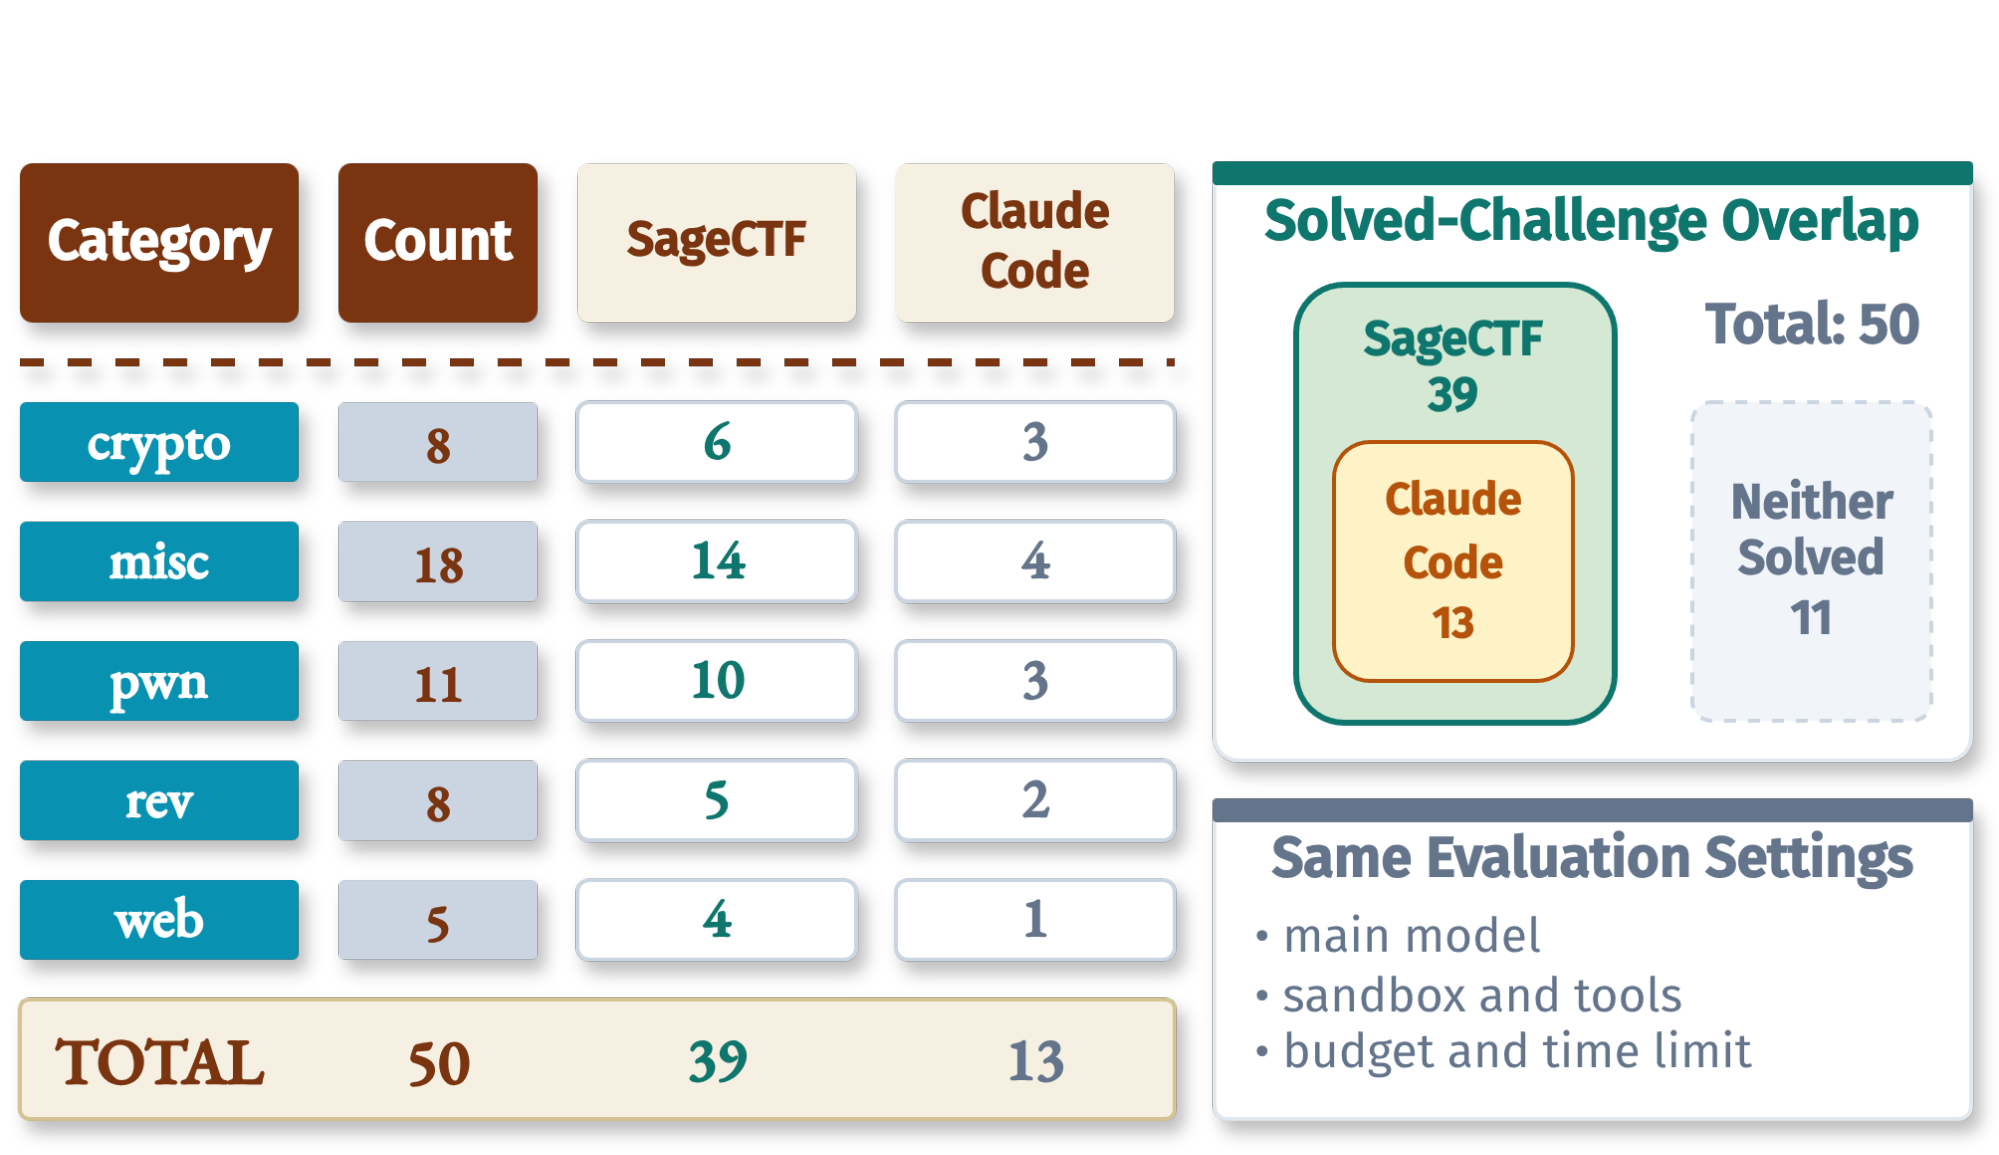
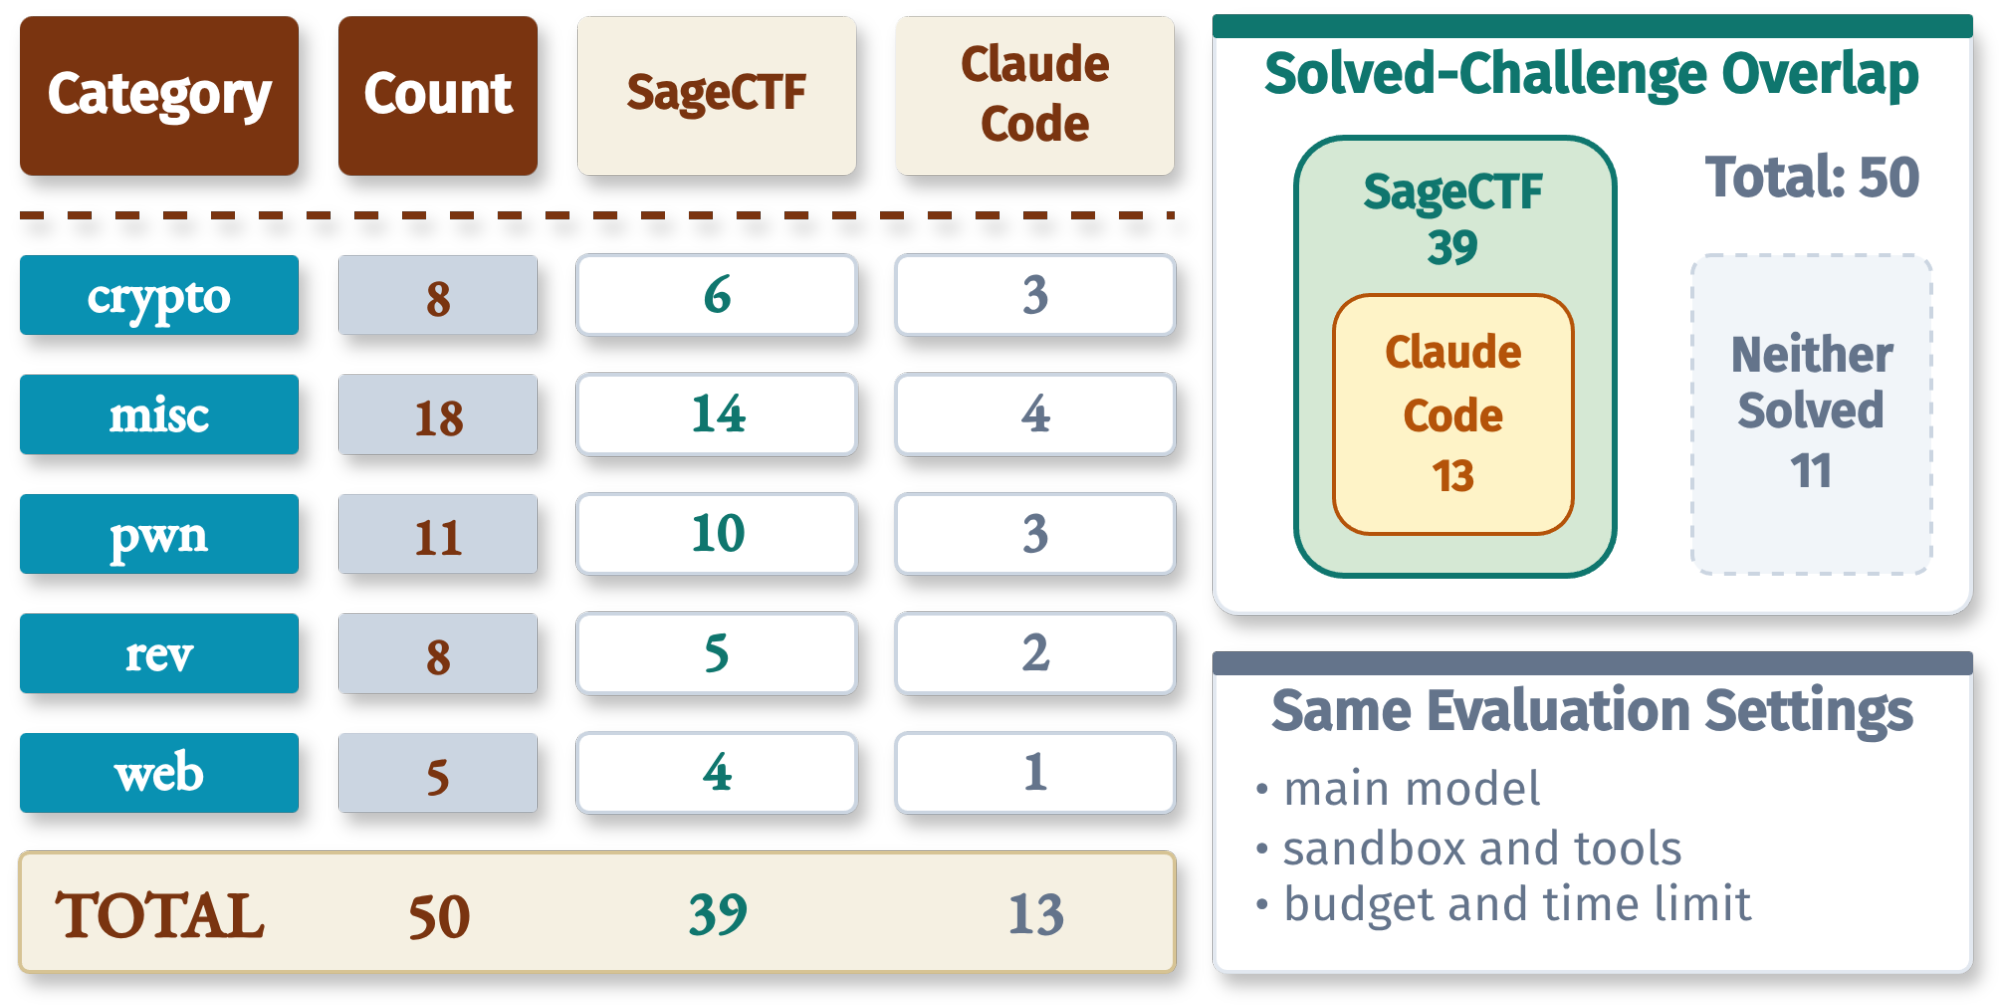
fix: blog post polish — divider, figure legibility, image trim
- Remove duplicate divider between title/meta and body (meta border-bottom
  already separates; drop leading <hr>)
- Add light figure backing for CTF post in dark theme so on-image text is
  readable; bump blog.css cache version
- Trim blank header band from sagectf/image6.png

diff --git a/static/css/blog.css b/static/css/blog.css
@@ -149,6 +149,15 @@ html[data-theme="light"] .blog-content strong {
   border: 1px solid var(--cyber-border);
 }
 
+/* CTF post: figures carry on-image text that is hard to read against the
+   dark page background, so give them a light backing in dark theme only
+   (light theme already has a light page background). The hero banner is
+   excluded since it is a full-bleed designed image. */
+html:not([data-theme="light"]) .blog-article--ctf .blog-figure:not(.blog-hero) img {
+  background: #e9edf2;
+  padding: 0.75rem;
+}
+
 .blog-figure figcaption {
   font-family: 'Inter', system-ui, sans-serif;
   font-size: 0.85rem;

diff --git a/blog/sagectf.html b/blog/sagectf.html
@@ -36,7 +36,7 @@
   <link rel="stylesheet" href="../static/css/bulma.min.css">
   <link rel="stylesheet" href="../static/css/adk.css?v=2">
   <link rel="stylesheet" href="../static/css/light-theme.css">
-  <link rel="stylesheet" href="../static/css/blog.css?v=1">
+  <link rel="stylesheet" href="../static/css/blog.css?v=2">
 
   <link rel="stylesheet" href="../static/css/fontawesome.all.min.css">
   <script defer src="../static/js/fontawesome.all.min.js"></script>
@@ -109,7 +109,7 @@
 
   <main id="main-content">
     <section class="section">
-      <article class="blog-article">
+      <article class="blog-article blog-article--ctf">
 
         <a href="index.html" class="blog-back">&larr; All posts</a>
 
@@ -130,8 +130,6 @@
         </div>
 
         <div class="blog-content">
-
-          <hr>
 
           <p>DEF CON CTF is the <strong>Olympics of hacking</strong>. Its challenges are among the hardest in all of cybersecurity, typically involving reverse-engineering binaries and crafting working exploits. Throughout the history of DEF CON quals, these tasks have usually demanded a team of more than <strong>20 world-class</strong> hackers — sometimes <strong>hundreds</strong> — working around the clock to solve them within the three-day window.</p>
 

diff --git a/blog/opensage.html b/blog/opensage.html
@@ -36,7 +36,7 @@
   <link rel="stylesheet" href="../static/css/bulma.min.css">
   <link rel="stylesheet" href="../static/css/adk.css?v=2">
   <link rel="stylesheet" href="../static/css/light-theme.css">
-  <link rel="stylesheet" href="../static/css/blog.css?v=1">
+  <link rel="stylesheet" href="../static/css/blog.css?v=2">
 
   <link rel="stylesheet" href="../static/css/fontawesome.all.min.css">
   <script defer src="../static/js/fontawesome.all.min.js"></script>
@@ -131,8 +131,6 @@
         </div>
 
         <div class="blog-content">
-
-          <hr>
 
           <h2>From Human-Centered to AI-Centered Agent Development</h2>
 

diff --git a/blog/index.html b/blog/index.html
@@ -36,7 +36,7 @@
   <link rel="stylesheet" href="../static/css/bulma.min.css">
   <link rel="stylesheet" href="../static/css/adk.css?v=2">
   <link rel="stylesheet" href="../static/css/light-theme.css">
-  <link rel="stylesheet" href="../static/css/blog.css?v=1">
+  <link rel="stylesheet" href="../static/css/blog.css?v=2">
 
   <link rel="stylesheet" href="../static/css/fontawesome.all.min.css">
   <script defer src="../static/js/fontawesome.all.min.js"></script>